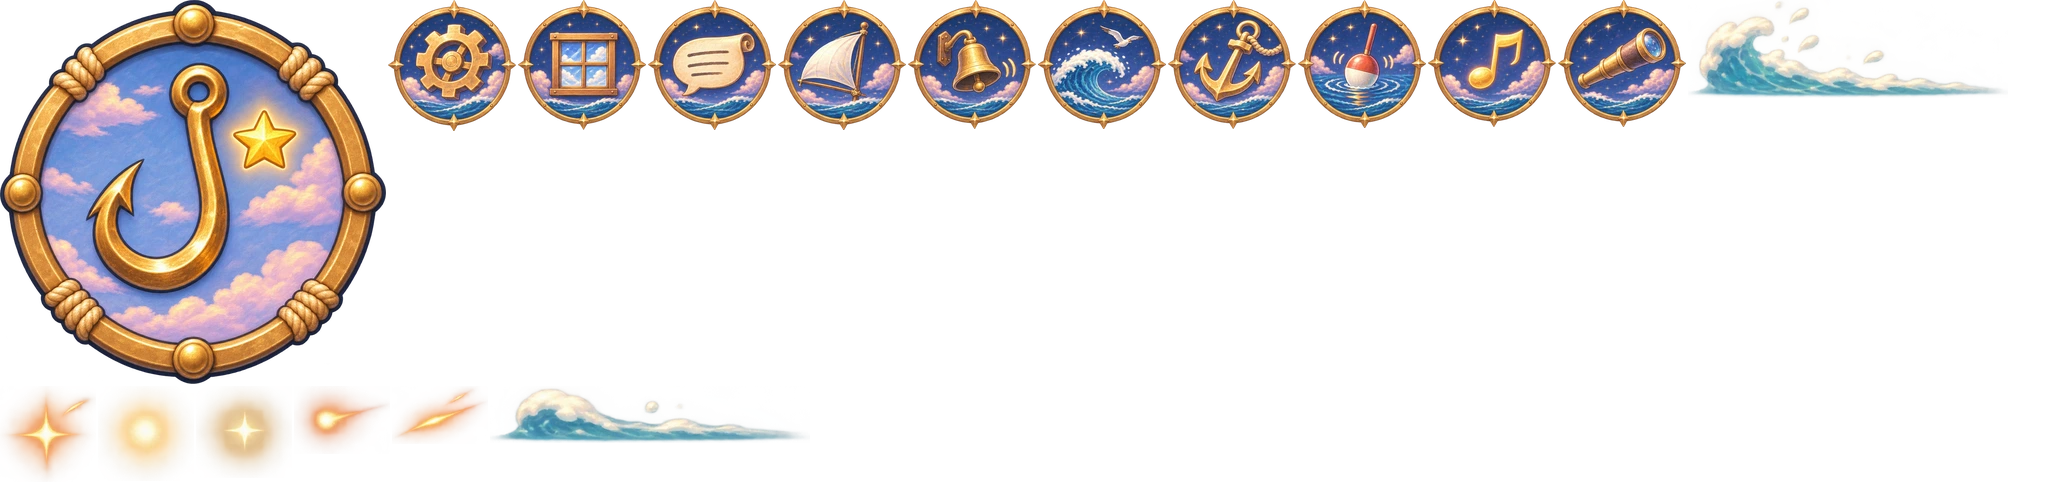
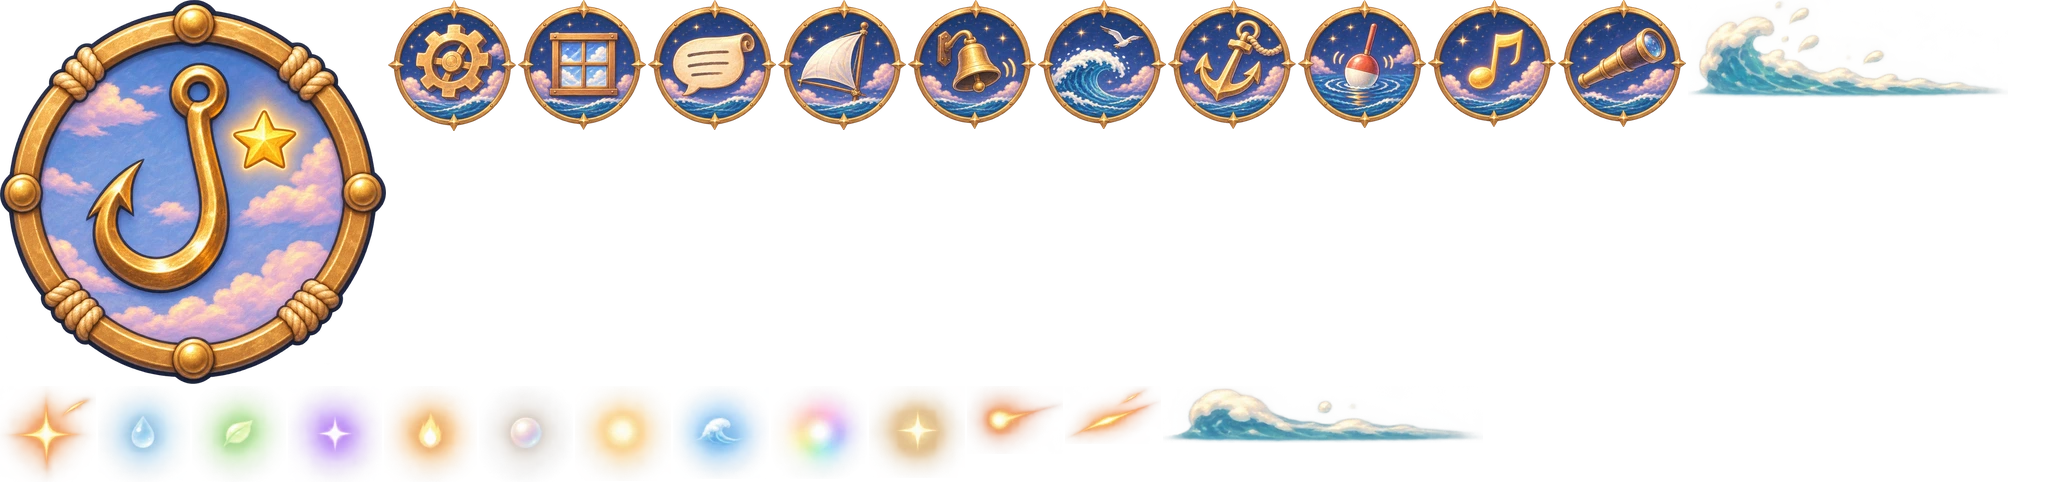
줄 단계별 빛 알갱이 그림 7개 넣음 (#397)
Claude-Session: https://claude.ai/code/session_0142yqQtSepe3ngremP8BMYq

Changed region(s): [[0.0312, 0.8058, 0.7188, 0.9917]]

diff --git a/src/render.js b/src/render.js
@@ -753,7 +753,7 @@ function lineFx(ctx, g, at, entry, mp, tn, dt, layer) {
     ctx.save(); ctx.imageSmoothingEnabled = true;
     for (let i = 0; i < n; i++) {
       const plain = 'fx_glint_' + (1 + i % 2), sp = L.tier >= 3 && hasSprite('fx_mote_' + L.tier) ? sprite('fx_mote_' + L.tier) : fxSprite(plain, 'fx_sparkle');      // 제 그림이 오기 전에는 흰 빛 알갱이
-      const u = 1 - ((L.phase + i / n) % 1), p = at(u), a = Math.pow(Math.sin(Math.PI * u), 0.7) * L.holdA, sz = 8 + 3 * Math.sin(Math.PI * u);
+      const u = 1 - ((L.phase + i / n) % 1), p = at(u), a = Math.pow(Math.sin(Math.PI * u), 0.7) * L.holdA, sz = (L.tier >= 3 ? 13 : 8) + 3 * Math.sin(Math.PI * u);      // 단계별 알갱이 그림은 빛 번짐이 넓어 알맹이가 작다 → 조금 크게
       ctx.globalAlpha = clamp(a * 0.95, 0, 1);
       ctx.drawImage(sp.img, p.x - sz / 2, p.y - sz * sp.h / sp.w / 2, sz, sz * sp.h / sp.w);
     }

diff --git a/tools/slice_set.py b/tools/slice_set.py
@@ -2,6 +2,7 @@
   ui_ic_skill  바다 화면의 기술 버튼 (낚싯바늘과 별)
   st_icons     설정·잠시 멈춤 판의 줄 아이콘 10개 → st_<이름>
   fx_line      줄다리기 때 줄의 이펙트: 불티 3 · 빛 알갱이 2 · 물살 2
+  fx_motes     줄 단계마다 다른 빛 알갱이 7개 → fx_mote_3 ~ fx_mote_9
 
 python3 tools/slice_set.py
 """
@@ -56,5 +57,7 @@ if (RAW / 'fx_line.png').exists():
     names = ['fx_spark_1', 'fx_spark_2', 'fx_spark_3', 'fx_glint_1', 'fx_glint_2', 'fx_wake_1', 'fx_wake_2']
     sizes = [96, 96, 96, 96, 96, 320, 320]
     for n, im, px in zip(names, rows_of('fx_line', [3, 2, 2]), sizes): items.append((n, fit(im, px)))
+if (RAW / 'fx_motes.png').exists():      # 줄 단계마다 다른 빛 알갱이: 3단계 ~ 9(태초)
+    for i, im in enumerate(rows_of('fx_motes', [7], gap=40)): items.append((f'fx_mote_{i + 3}', fit(im, 96)))
 pack(items, 'ui_set.webp', manifest)
 mf.write_text(json.dumps(doc, indent=1, ensure_ascii=False) + '\n')

diff --git a/ASSET_QUEUE.md b/ASSET_QUEUE.md
@@ -416,4 +416,4 @@
 | 394 | `ui_ic_skill` | 바다 화면의 기술 버튼 (둥근 밧줄 고리 버튼 하나: 낚싯바늘과 별). 톱니 버튼은 이제 설정에 쓴다 | DONE | 통과 |
 | 395 | `st_icons` | 설정·잠시 멈춤 판의 줄 아이콘 10개 (음표·종·파도·창틀·망원경·떨리는 찌·말 두루마리·돛·톱니·닻) | DONE | 통과 |
 | 396 | `fx_line` | 줄다리기 때 줄의 이펙트: 불티 3개 · 빛 알갱이 2개 · 줄이 물을 가르는 물살 2개 (3줄) | DONE | 통과 |
-| 397 | `fx_motes` | 줄 단계마다 다른 빛 알갱이 7개 (물방울·잎사귀 빛·물결 빛·보랏빛 별·금빛 불꽃·무지갯빛·진주빛) | TODO | |
+| 397 | `fx_motes` | 줄 단계마다 다른 빛 알갱이 7개 (물방울·잎사귀 빛·물결 빛·보랏빛 별·금빛 불꽃·무지갯빛·진주빛) | DONE | 통과 |

diff --git a/GAME_DESIGN.md b/GAME_DESIGN.md
@@ -771,5 +771,5 @@
 | 태초의 차림 | 진주빛 | 7 | 은은하게 빛남 |
 
 - 빛깔 순서는 '낚았다!' 글자판의 등급 색과 같다 (잎 → 물결 → 보라 → 불꽃 → 무지개).
-- 알갱이 그림은 #397 `fx_motes` (`fx_mote_3`~`fx_mote_9`). 오기 전에는 흰 빛 알갱이로 대신한다.
+- 알갱이 그림은 #397 `fx_motes` (`fx_mote_3`~`fx_mote_9`). `tools/slice_set.py`가 잘라 넣는다.
 
